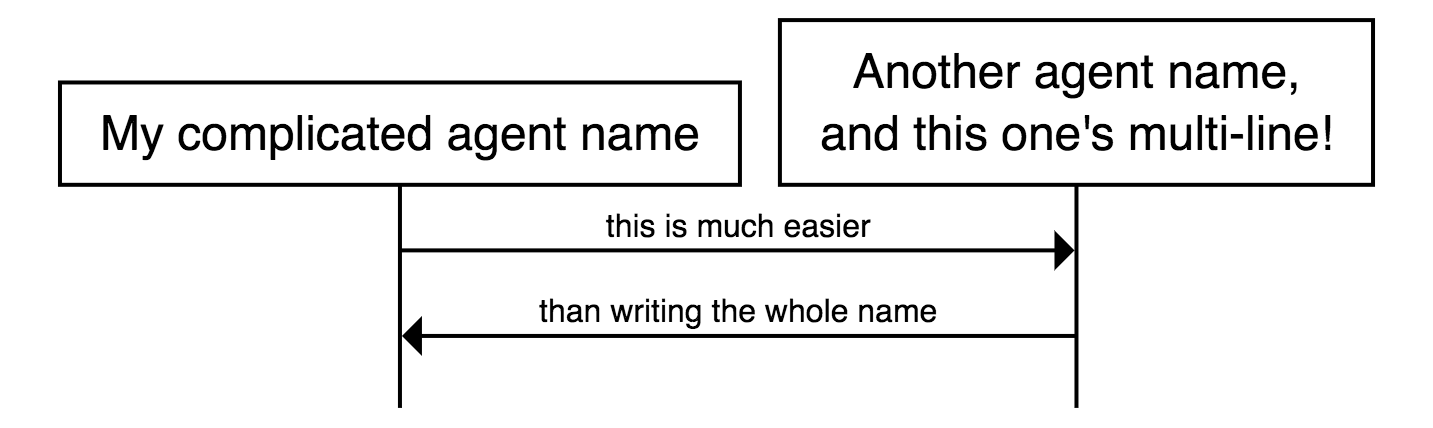
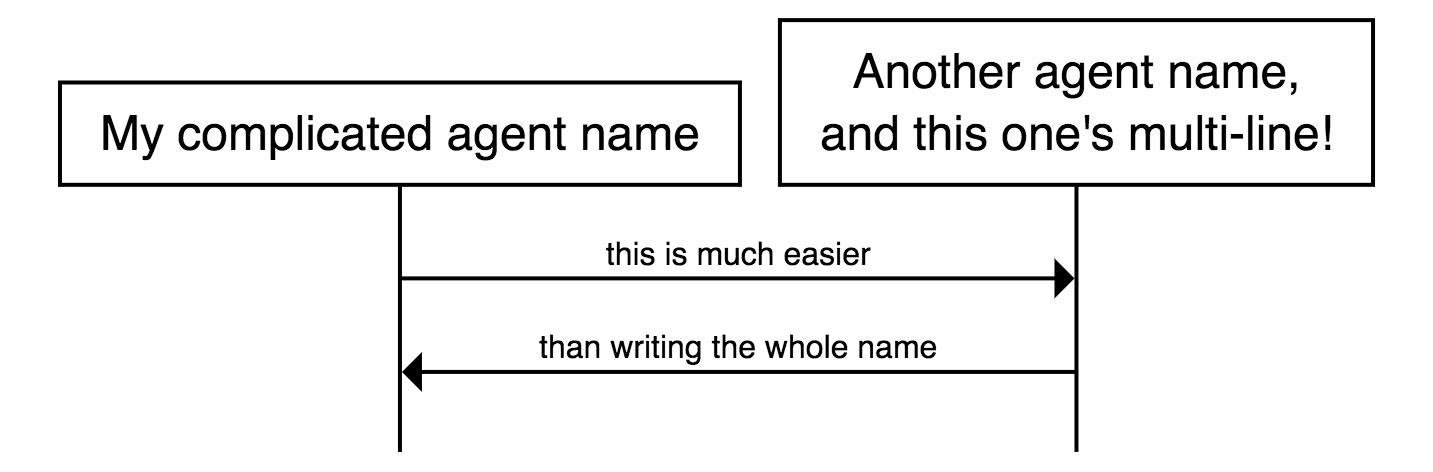
Make vertical spacing more consistent

diff --git a/scripts/sequence/sequence_integration_spec.js b/scripts/sequence/sequence_integration_spec.js
@@ -93,12 +93,12 @@ defineDescribe('Sequence Integration', [
 
 		const content = getSimplifiedContent(renderer);
 		expect(content).toContain(
-			'<svg viewBox="-5 -5 82 47">'
+			'<svg viewBox="-5 -5 82 56">'
 		);
 
 		// Agent 1
 		expect(content).toContain(
-			'<line x1="20.5" y1="11" x2="20.5" y2="37" class="agent-1-line"'
+			'<line x1="20.5" y1="11" x2="20.5" y2="46" class="agent-1-line"'
 		);
 		expect(content).toContain(
 			'<rect x="10" y="0" width="21" height="11"'
@@ -109,7 +109,7 @@ defineDescribe('Sequence Integration', [
 
 		// Agent 2
 		expect(content).toContain(
-			'<line x1="51.5" y1="11" x2="51.5" y2="37" class="agent-2-line"'
+			'<line x1="51.5" y1="11" x2="51.5" y2="46" class="agent-2-line"'
 		);
 		expect(content).toContain(
 			'<rect x="41" y="0" width="21" height="11"'
@@ -120,10 +120,10 @@ defineDescribe('Sequence Integration', [
 
 		// Arrow
 		expect(content).toContain(
-			'<line x1="20.5" y1="19" x2="48.5" y2="19"'
+			'<line x1="20.5" y1="26" x2="48.5" y2="26"'
 		);
 		expect(content).toContain(
-			'<polygon points="46 14 51 19 46 24"'
+			'<polygon points="46 21 51 26 46 31"'
 		);
 	});
 

diff --git a/scripts/sequence/components/Connect.js b/scripts/sequence/components/Connect.js
@@ -300,7 +300,10 @@ define([
 				'fill': 'transparent',
 			}), clickable.firstChild);
 
-			return y1 + arrowDip + env.theme.actionMargin;
+			return y1 + Math.max(
+				arrowDip + env.theme.minActionMargin,
+				env.theme.actionMargin
+			);
 		}
 
 		renderSimpleConnect({label, agentNames, options}, env) {
@@ -359,7 +362,10 @@ define([
 				'fill': 'transparent',
 			}), clickable.firstChild);
 
-			return y + arrowSpread + env.theme.actionMargin;
+			return y + Math.max(
+				arrowSpread + env.theme.minActionMargin,
+				env.theme.actionMargin
+			);
 		}
 
 		renderPre({label, agentNames, options}, env) {

diff --git a/scripts/sequence/themes/Basic.js b/scripts/sequence/themes/Basic.js
@@ -7,7 +7,8 @@ define(['core/ArrayUtilities', 'svg/SVGShapes'], (array, SVGShapes) => {
 		titleMargin: 10,
 		outerMargin: 5,
 		agentMargin: 10,
-		actionMargin: 3,
+		actionMargin: 10,
+		minActionMargin: 3,
 		agentLineHighlightRadius: 4,
 
 		agentCap: {

diff --git a/scripts/sequence/components/AgentHighlight.js b/scripts/sequence/components/AgentHighlight.js
@@ -29,6 +29,7 @@ define(['./BaseComponent'], (BaseComponent) => {
 				env.drawAgentLine(name, env.primaryY);
 				env.agentInfos.get(name).currentRad = r;
 			});
+			return env.primaryY + env.theme.actionMargin;
 		}
 	}
 

diff --git a/scripts/sequence/themes/Chunky.js b/scripts/sequence/themes/Chunky.js
@@ -8,6 +8,7 @@ define(['core/ArrayUtilities', 'svg/SVGShapes'], (array, SVGShapes) => {
 		outerMargin: 5,
 		agentMargin: 8,
 		actionMargin: 5,
+		minActionMargin: 5,
 		agentLineHighlightRadius: 4,
 
 		agentCap: {
